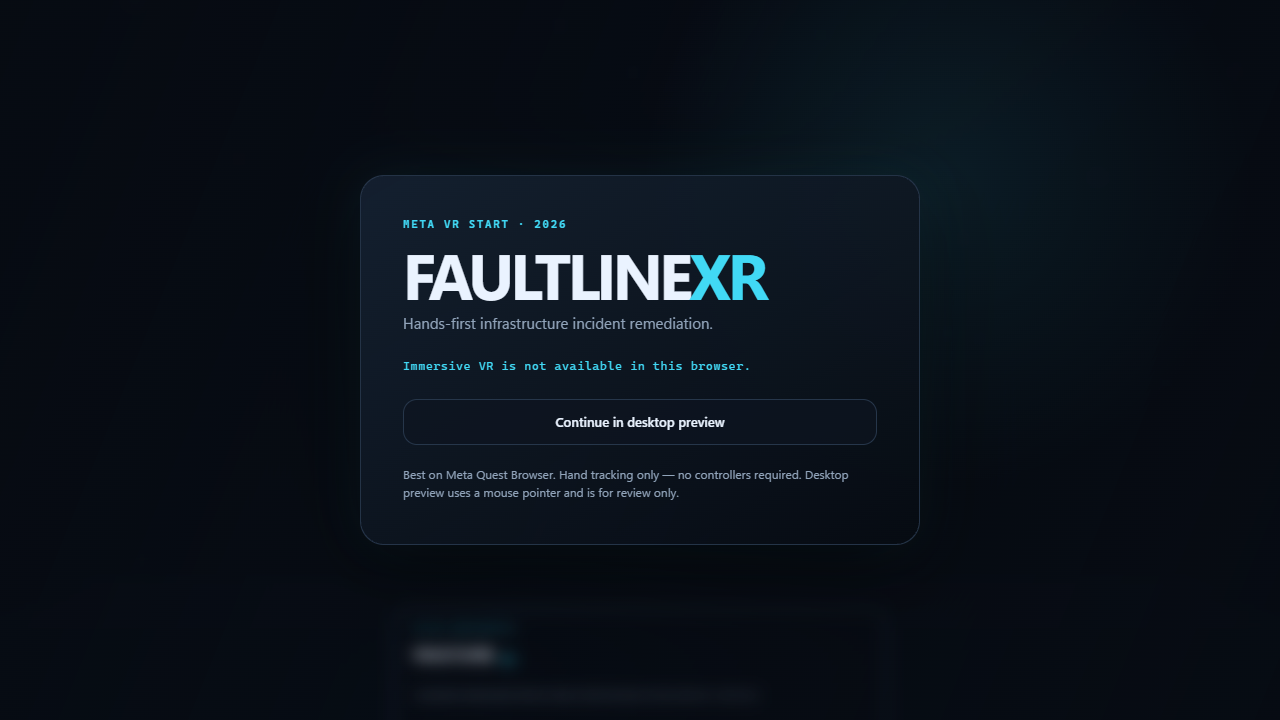
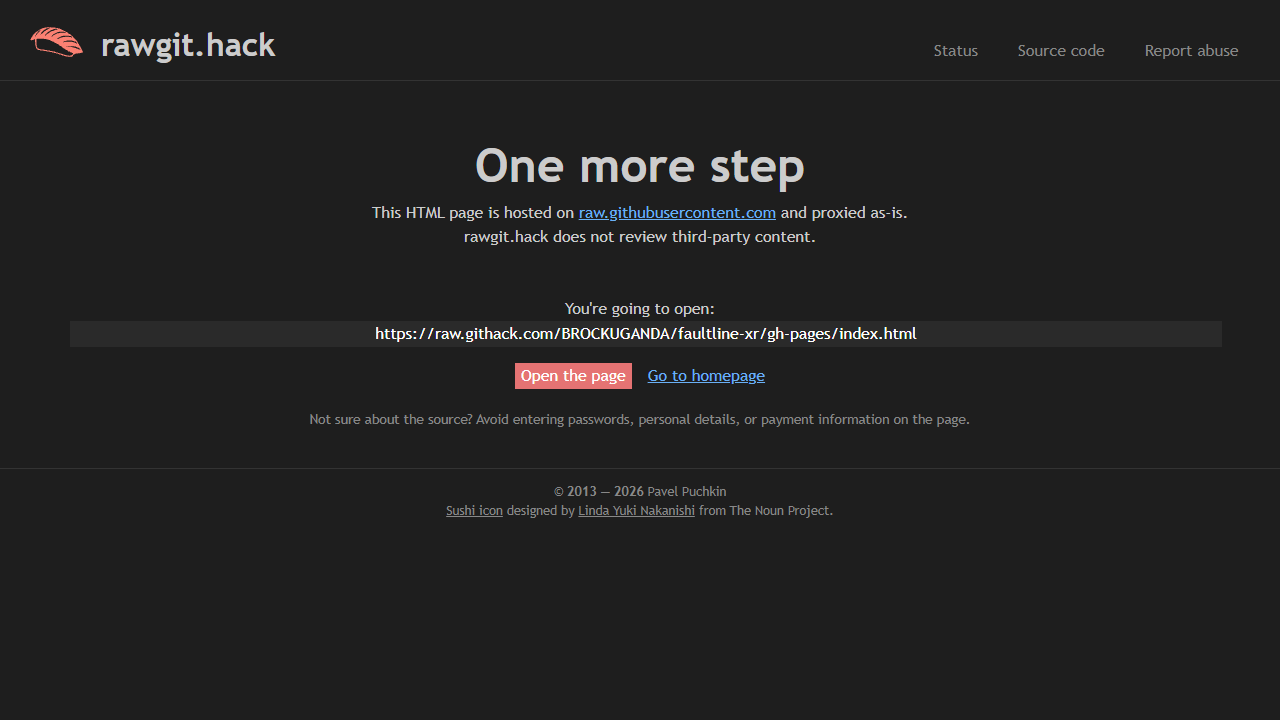
[ai-gen] docs: public-URL blocker precisely diagnosed (account-level verified domain); githack/jsdelivr probes rejected; stale runs cancelled

diff --git a/IMPLEMENTATION_STATUS.md b/IMPLEMENTATION_STATUS.md
@@ -19,7 +19,7 @@ Phase 0 (recon) and Phase 1 (traceability) were re-executed against the live rep
 **Tests:** **15/15 pass** (was 13/14 on this machine; root cause: Node 26 ambient `localStorage` broke the storage-unavailable test assumption). Full interactive journey verified after fix: **phase=resolved, findings=2, dispatchCount=2, screen=results, toast=none; 0 console errors; 0 page errors** (2026-11-10T03:11, `audit-2026-11-10/smoke-00..13-*.png`).
 **Profile used:** headless desktop Chromium (SwiftShader) for desktop-preview checks — **not** Quest Browser; **not** a device.
 **Known defects found and fixed:** (1) desktop preview camera pitch −0.42 rad left side panels/buttons outside the 1280×720 frustum; fixed with a desktop-only rig offset (0, 0.06, 0.12) + pitch −0.46; XR pose path (`applyXrPose()`) untouched. Regression: one iteration overshot (panels invisible) corrected before rebuild. (2) **Toast overlay wiped the workspace action panel** — `drawToastOverlay()` re-drew only the toast, blanking the incident UI for 2.8 s whenever any toast fired; fixed by drawing the toast on top of the full screen in `app.refresh()`; fix verified by the post-fix full journey.
-**Remaining blockers:** (1) **Public HTTPS URL** — Pages built green on `gh-pages`; blocked on stale custom domain removal in Settings → Pages (30 s; entrant action); (2) **Quest Browser device test** — no headset; (3) **public video link** — PUBLIC via release asset (recommend YouTube re-upload); (4) **Devpost submission** — account action.
+**Remaining blockers:** (1) **Public HTTPS URL** — Pages site built green on `gh-pages` (repo `faultline-xr`); github.io currently 308-redirects to securevoiceai.me (account-level verified domain on BROCKUGANDA; confirmed on a fresh repo) — entrant must clear it (Settings → Pages account level) or deploy via authorized Caddy route; (2) **Quest Browser device test** — no headset; (2) **Quest Browser device test** — no headset; (3) **public video link** — PUBLIC via release asset (recommend YouTube re-upload); (4) **Devpost submission** — account action.
 **Evidence paths:** `audit-2026-11-10/`, `submission/BUILD_MANIFEST.json`, git commit `ea4bcdf`.
 **Next phase:** deploy/verify the public HTTPS build, then PHASE 11 (submission package). Engineering-side P0 is stable: 15/15 tests, full headless journey verified, 0 console/page errors. Quest Browser device verification remains a user action.
 
